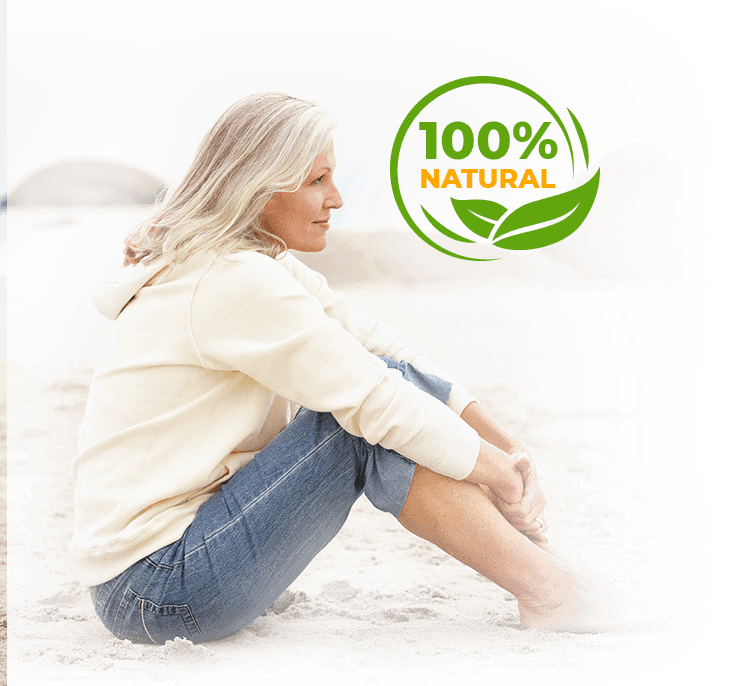
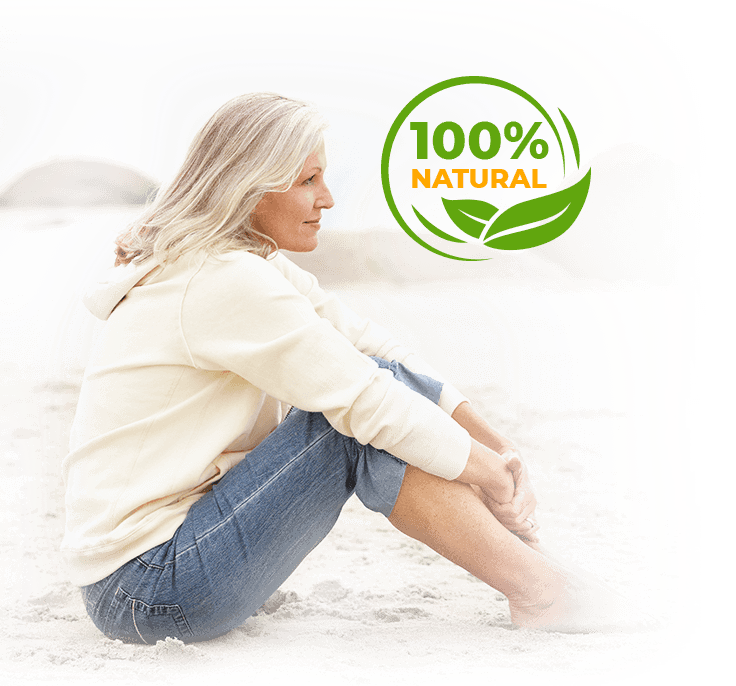
..

diff --git a/style.css b/style.css
@@ -1414,7 +1414,9 @@ span.bg-yellow-image{
 .fl-pkg-grd-col-hdr span,.fl-pkg-grd-col-hdr strong{
     display: block;
 }
-
+.fl-pkg-grd-col-hdr strong{
+  line-height:1!important;
+}
 .fl-pkg-grd-col-hdr{
     text-transform: uppercase;
     text-align: center;
@@ -1444,7 +1446,7 @@ span.bg-yellow-image{
     text-shadow: 0px 1px #2092cd;
 }
 .fl-pkg-grd-col-hdr strong {
-    padding: 0px 10px 5px 10px;
+    padding: 8px 10px 16px 10px;
     font-size: 28px;
     line-height: 45px;
     font-family: 'BarlowCondensed-Bold';
@@ -1871,6 +1873,11 @@ span.bg-yellow-image{
     .swu-section-10-cntlr{
       margin-left:-50px;
     }
+    .swu-section-14-img {
+      right:0px;
+      top: -150px;
+      max-width: 300px;
+  }
 }
 @media(max-width: 991px){
   .hide-sm{
@@ -2117,6 +2124,7 @@ span.bg-yellow-image{
     position: static;
     text-align: center;
     margin-bottom: 35px;
+    margin:0 auto;
   }
   .swu-section-14-hedng{
     padding-right: 0;
@@ -2208,11 +2216,10 @@ span.bg-yellow-image{
     padding-top:5px;
   }
   .fl-creditcards {
-      width: 235px;
       margin: auto;
   }
   .fl-add-to-cart-btn-img {
-      width: 267px;
+
       margin-left: auto;
       margin-right: auto;
   }
@@ -2240,7 +2247,6 @@ span.bg-yellow-image{
   }
   .swd-sec6-image {
       background-position: left -11px bottom 30px;
-      min-height:665px;
   }
   .pkg-area-con-bg{
     padding-bottom:0;
@@ -2253,7 +2259,6 @@ span.bg-yellow-image{
   }
   .swd-sec7-image {
       background-position: left 5px bottom 9px;
-      min-height: 740px;
       background-size: cover;
   }
   .swd-sec5-cntlr h4 span{
@@ -2552,7 +2557,7 @@ span.bg-yellow-image{
   .fl-pkg-grd-ftr ul li em {
       top: -1px;
   }
-  .fl-pkg-save-price strong {
+/*  .fl-pkg-save-price strong {
       font-size: 20px;
   }
   .fl-pkg-price strong {
@@ -2567,11 +2572,11 @@ span.bg-yellow-image{
       right: 21px;
       font-size: 24px;
       bottom: 17px;
-  }
+  }*/
   .free-shipping-logo {
       left: 24px;
   }
-  .fl-pkg-dis-price strong {
+ /* .fl-pkg-dis-price strong {
       font-size: 20px;
   }
   
@@ -2595,7 +2600,7 @@ span.bg-yellow-image{
   }
   .fl-pkg-price {
     margin-bottom:0;
-  }
+  }*/
   .fl-pkg-grd-col-hdr strong, .fl-pkg-grd-col-hdr span {
       font-size: 21px;
   }
@@ -2649,5 +2654,8 @@ span.bg-yellow-image{
   }
   .fl-shipping strong {
       font-size: 12px;
+  }
+  .fl-pkg-grd-col-hdr strong br{
+    display:block;
   }
 }

diff --git a/downsell.html b/downsell.html
@@ -293,7 +293,9 @@
 
 
 <section class="swd-sec6">
-  <div class="lazy swd-sec4-image lazy swd-sec6-image" data-src="assets/images/dw-img3.png"></div>
+  <div class="lazy swd-sec4-image swd-sec6-image" data-src="assets/images/dw-img3.png">
+    <img class="lazy show-sm" data-src="assets/images/dw-img3.png">
+  </div>
   <div class="container">
     <div class="swd-sec6-cntlr cle">
       <div class="row">
@@ -314,7 +316,9 @@
 </section>
 
 <section class="swd-sec6 swd-sec7">
-  <div class="lazy swd-sec4-image lazy swd-sec6-image swd-sec7-image" data-src="assets/images/dw-img4.png"></div>
+  <div class="lazy swd-sec4-image lazy swd-sec6-image swd-sec7-image" data-src="assets/images/dw-img4.png">
+    <img class="lazy show-sm" data-src="assets/images/dw-img4.png">
+  </div>
   <div class="container">
     <div class="swd-sec6-cntlr cle">
       <div class="row">
